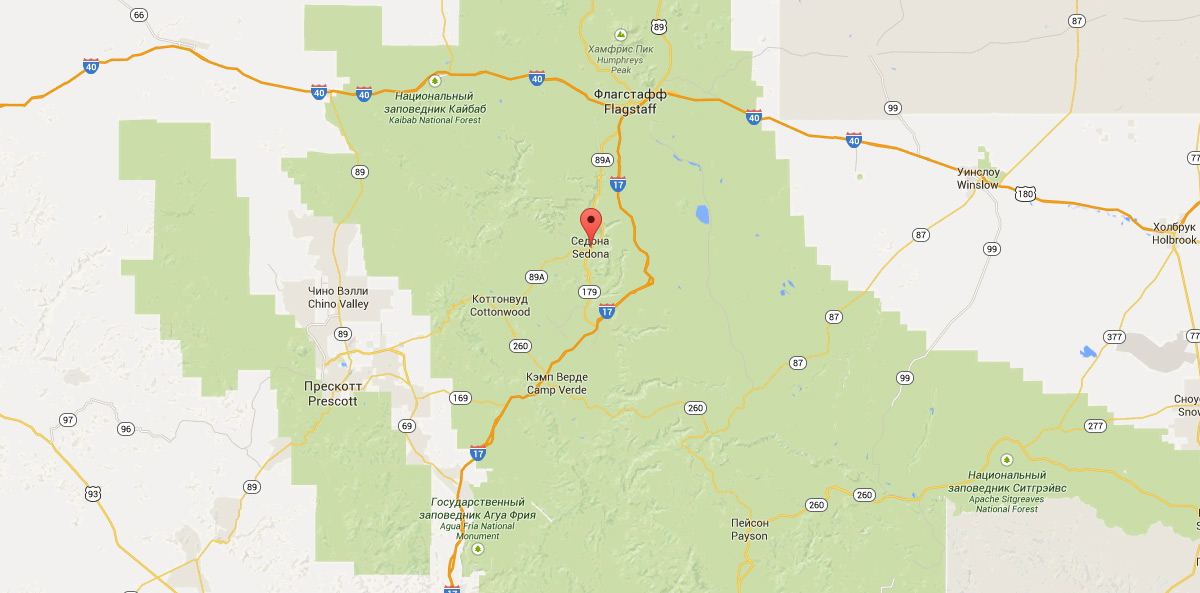
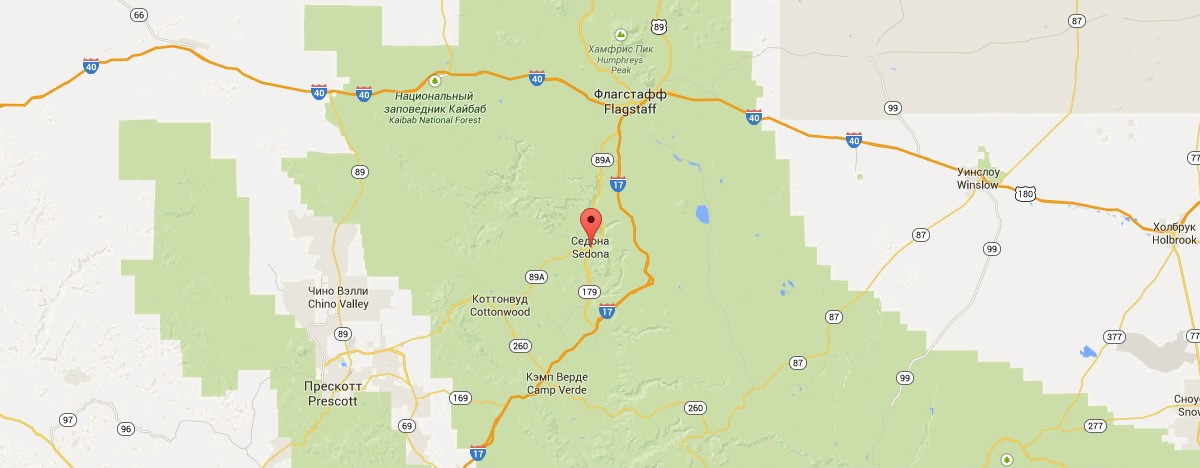
Добавила карту и спозиционировала каталог

diff --git a/css/style.css b/css/style.css
@@ -4,7 +4,6 @@ body{
 }
 a{
   text-decoration: none;
-  color: #000000;
 }
 .container{
   text-transform: uppercase;
@@ -191,10 +190,7 @@ a{
   margin: auto;
   position: relative;
 }
-.search::before{
-  position: relative;
-  background-image: url(../img/map.jpg);
-}
+
 .found{
   margin: 50px;
   font-size: 21px;
@@ -202,6 +198,14 @@ a{
 }
 .hotel{
   margin-top: 50px;
+  padding-bottom: 73px;
+  position: relative;
+  background-position: bottom;
+  background-repeat: no-repeat;
+  background-image: url(../img/map.jpg);
+}
+.log_in{
+  background-color: white;
 }
 .hotel>p{
   margin-left: 370px;
@@ -274,10 +278,20 @@ a{
   margin-top: 20px;
   margin-bottom: 20px;
 }
+.main_navigation>ul>li>a{
+    color: #000000;
+}
 .main_navigation>ul>li{
   display: inline;
 }
-
+.main_navigation>ul>li>a:hover{
+    color: #81b3d2;
+    font-weight: bold;
+  }
+.main_navigation>ul>li>a:active{
+  color: #b2b2b2;
+  font-weight: bold;
+}
 .type_house ul, .infrastructure ul, .main_navigation ul{
   margin: 0;
   padding: 0;
@@ -315,9 +329,9 @@ input[type=checkbox]:checked + label:before {
   box-sizing: border-box;
   position: relative;
   color: white;
-  margin-right: 70px;
+  margin-right: 60px;
   margin-top: 15px;
-  margin-left: 90px;
+  margin-left: 100px;
 }
 /*filter*/
 /*_________________________________________________*/
@@ -354,13 +368,15 @@ input[type=checkbox]:checked + label:before {
   display: inline-block;
   font-size: 14px;
   line-height: 21px;
+  padding-top: 5px;
+  padding-bottom: 5px;
   vertical-align: top;
   cursor: pointer;
 }
 .price-controls .min-price,
 .price-controls .max-price {
   width: 90px;
-  padding-left: 55px;
+  padding-left: 35px;
 }
 .price-controls input {
   width: 30px;
@@ -482,32 +498,47 @@ input[type=checkbox]:checked + label:before {
   float: right;
   content: "\25b2";
   color: #cccccc;
+  margin-right: -90px;
 }
 .arrow_down::before{
   float: right;
   content: "\25bc";
   color: #cccccc;
+  margin-right: 85px;
+
 }
-.arrow:before:hover{
+.arrow>a:before:hover{
   color: #ffffff;
 }
-.arrow:before:active{
+.arrow>a:before:active{
   color: #81b3d2;
 }
 
 .sort{
-  margin-top: 55px;
+  margin-top: 50px;
+  margin-left: -15px;
 }
 .sort>ul>li:first-child{
   font-weight: bold;
   font-size: 21px;
 }
-.sort>a{
+.sort>ul>li>a{
+  color: #b2b2b2;
   float: right;
   font-size: 12px;
   font-family: "PTSans Regular", sans-serif;
 }
-.sort_price:active{
+.sort>ul>li>a:hover{
+  color: #a3c7de;
+}
+.sort>ul>li>a:active{
+  color: #000000;
+}
+.sort>ul>li{
+  font-size: 12px;
+  font-family: "PTSans Regular", sans-serif;
+}
+.sort_price>a:active{
   color: #a3c7de;
 }
 .sort_rating_and_type{
@@ -614,45 +645,55 @@ input[type=checkbox]:checked + label:before {
   margin-left: 60px;
 }
 .desert_quail_inn{
-  margin-bottom: 60px;
-  margin-top: 60px;
+  margin-bottom: 50px;
+  margin-top: 55px;
 }
 .villas_at_poco_diablo>img{
   float: left;
   margin-left: 60px;
 }
 .villas_at_poco_diablo{
-  margin-bottom: 30px;
-  margin-top: 30px;
+  margin-bottom: 15px;
+  margin-top: 25px;
 }
 .rating{
   font-family: "PTSans Regular", sans-serif;
   font-size: 14px;
   line-height: 21px;
   display: inline-block;
-  margin-right: 70px;
-  margin-bottom: 30px;
   color: #828282;
-  width: 110px;
-  height: 25px;
+  margin-left: 60px;
+
 }
 .rating_amara:before{
-  margin-top: 30px;
+  font-size: 25px;
+  margin-top: 25px;
+  margin-right: 30px;
   content: "\2605\2605\2605\2605";
   color: #81b3d2;
 }
 .rating_desert:before{
-  margin-top: 30px;
+  font-size: 25px;
+  margin-top: 20px;
+  margin-right: 30px;
   content: "\2605\2605";
   color: #81b3d2;
 }
 .rating_villas:before{
+  font-size: 25px;
   margin-top: 30px;
+  margin-right: 30px;
   content: "\2605\2605\2605";
   color: #81b3d2;
 }
 .rating>p{
   background-color: #f2f2f2;
+  width: 110px;
+  height: 25px;
+  padding-top: 3px;
+  box-sizing: border-box;
+  margin-right: 70px;
+  margin-top: 40px;
 }
 
 .main_footer{
@@ -665,6 +706,7 @@ input[type=checkbox]:checked + label:before {
   font-size: 21px;
   text-align: center;
   margin-top: 45px;
+  margin-bottom: 55px;
 }
 .footer_social{
   float: left;
@@ -715,14 +757,15 @@ input[type=checkbox]:checked + label:before {
   font-family: "PTSans Regular", sans-serif;
   font-size: 14px;
   margin-top: 50px;
-  margin-left: 80px;
+  margin-left: 85px;
 }
 .footer_copyright>a{
   width: 113px;
   height: 39px;
   margin-top: 40px;
   padding: 0;
-  margin-right: 120px;
+  margin-right: 110px;
+  margin-left: 5px;
   background-position: center;
   display: inline-block;
   box-sizing: border-box;

diff --git a/catalog.html b/catalog.html
@@ -101,10 +101,10 @@
             <li class="sort_rating_and_type">
               <a href="#">По рейтингу</a>
             </li>
-            <li class="arrow arrow_up">
+            <li class="arrow arrow_down">
               <a href="#"></a>
             </li>
-            <li class="arrow arrow_down">
+            <li class="arrow arrow_up">
               <a href="#"></a>
             </li>
           </ul>
